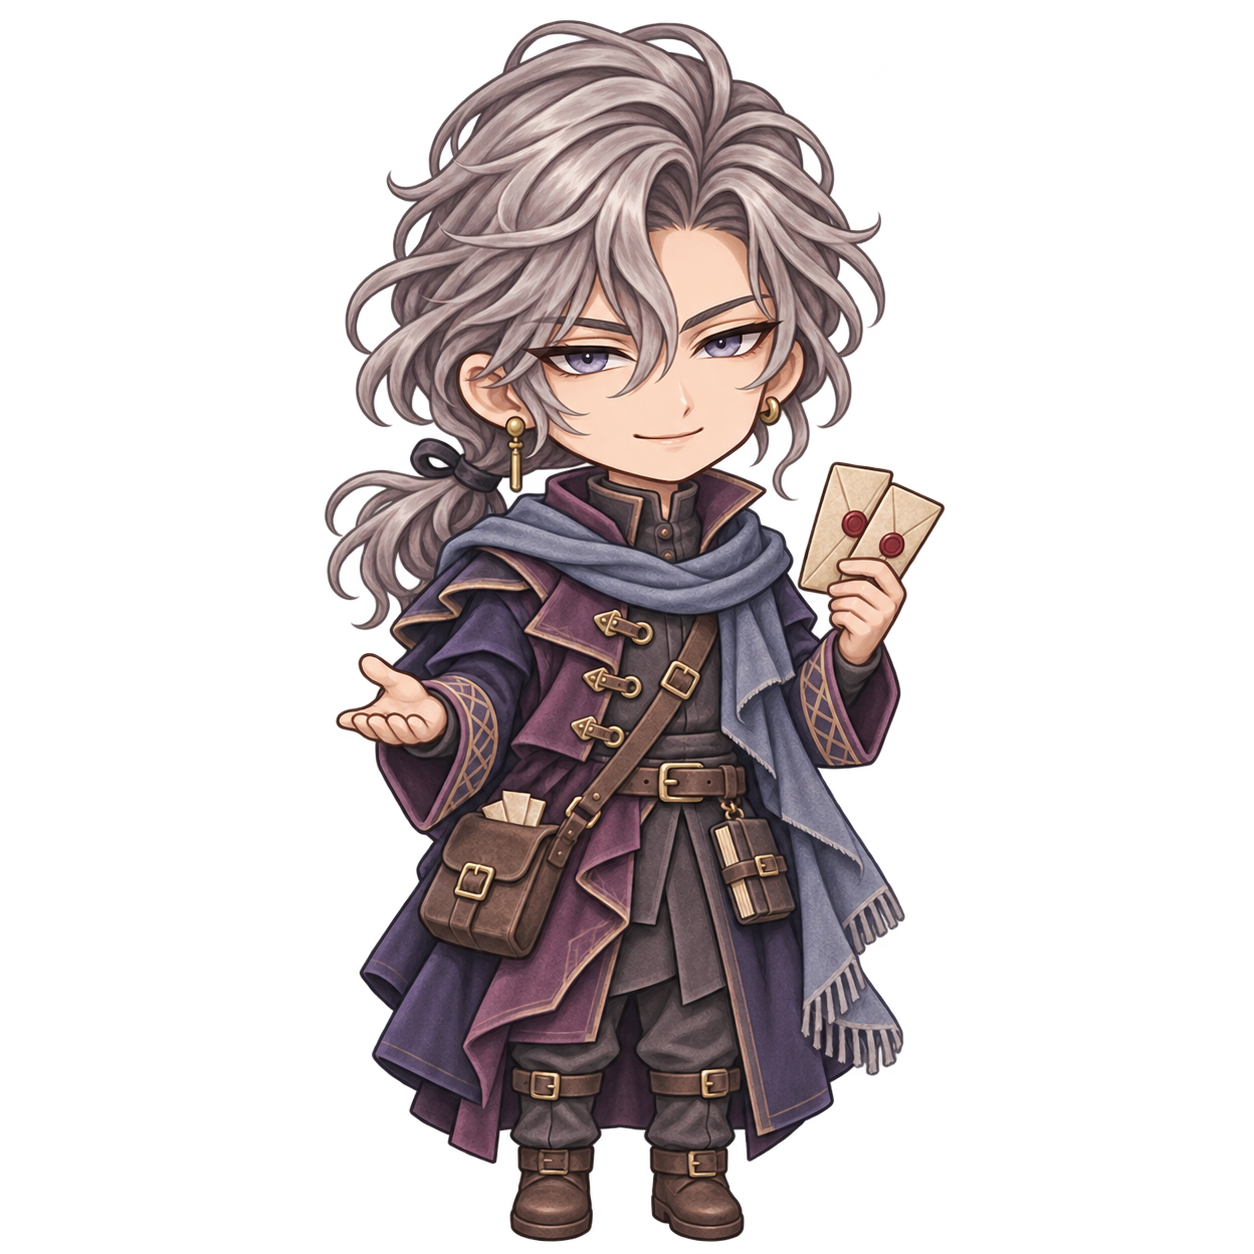
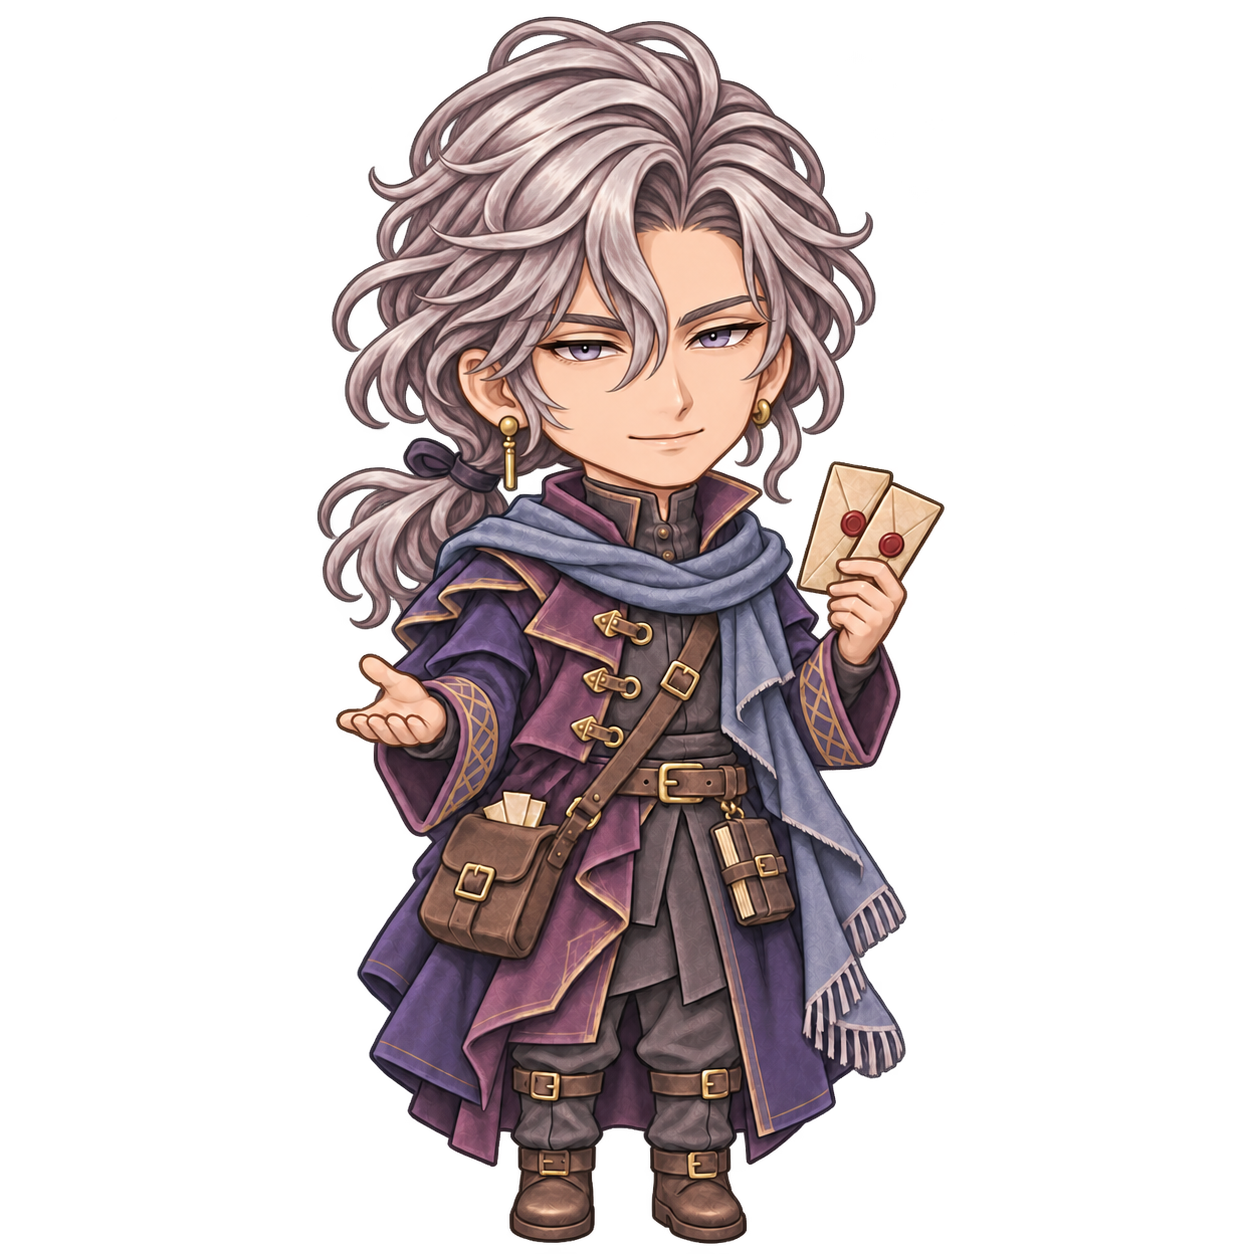
Refine Razen SD portrait with a mature youthful face

Changed region(s): [[0.2488, 0.0, 0.7464, 0.9952]]

diff --git a/src/assets/characters/SUCCESSOR_PORTRAITS.md b/src/assets/characters/SUCCESSOR_PORTRAITS.md
@@ -20,6 +20,6 @@
 - 미렐: 금발과 부드러운 미소, 밝은 의상과 새싹을 감싼 자세를 유지했습니다.
 - 카이렌: 단정한 머리와 곧은 자세, 은색 갑옷과 검 위에 모은 손을 유지했습니다.
 - 벨카: 강인한 체형과 당찬 눈빛, 적갈색 머리와 수선한 실용복을 유지했습니다.
-- 라젠: 여유로운 반웃음, 은회색 머리와 비대칭 의상, 서신과 손짓을 유지했습니다.
+- 라젠: 여유로운 반웃음, 은회색 머리와 비대칭 의상, 서신과 손짓을 유지했습니다. SD는 좁은 눈매와 또렷한 얼굴선으로 성숙함을 표현하되, 눈가와 입가의 주름을 줄여 지나치게 나이 들어 보이지 않도록 조정했습니다. 실제 나이 미상 설정은 유지합니다.
 
 기존 시온의 `../hero/dialogue/neutral.png`를 대화용 화풍 참고로 이미지 생성 도구로 제작했습니다. 기준 이미지의 원본 캐릭터 시트 출처는 `../hero/academy/README.md`를 참조하세요. 이번 작업은 이미지 추가이며 게임의 대화 UI나 캐릭터 데이터에 연결하지 않았습니다. SD는 단일 정지 포즈이며 방향별 이동·공격 애니메이션 시트가 아닙니다.
